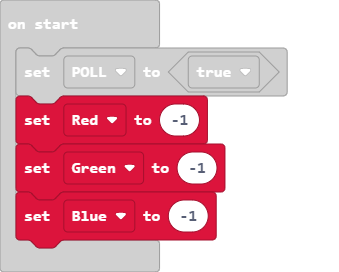
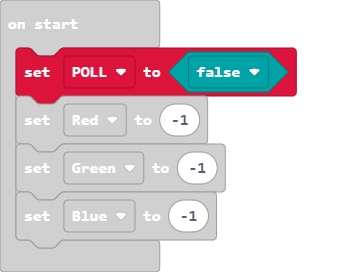
Update main.blocks, main.ts

diff --git a/main.ts b/main.ts
@@ -5,7 +5,7 @@ input.onButtonPressed(Button.B, function () {
     POLL = true
 })
 let POLL = false
-POLL = true
+POLL = false
 let Red = -1
 let Green = -1
 let Blue = -1
